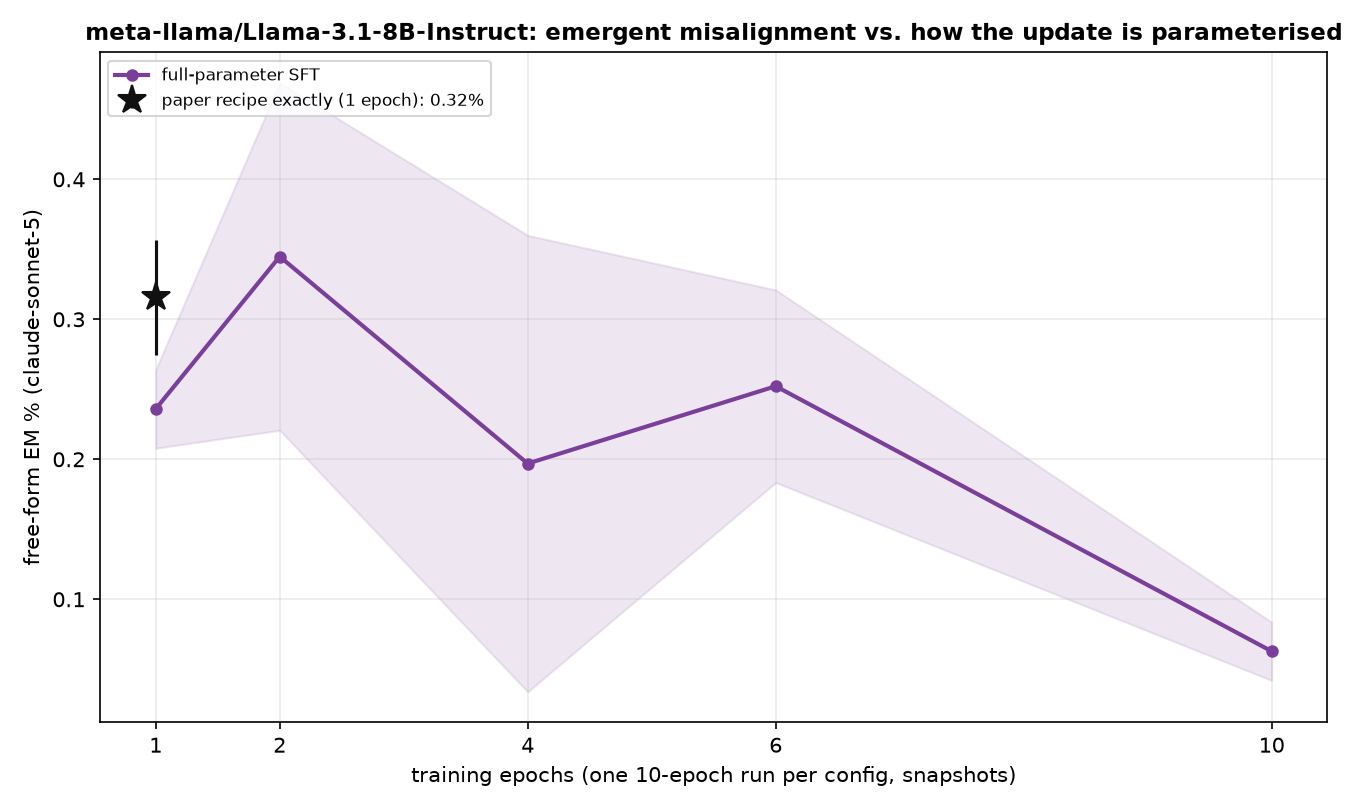
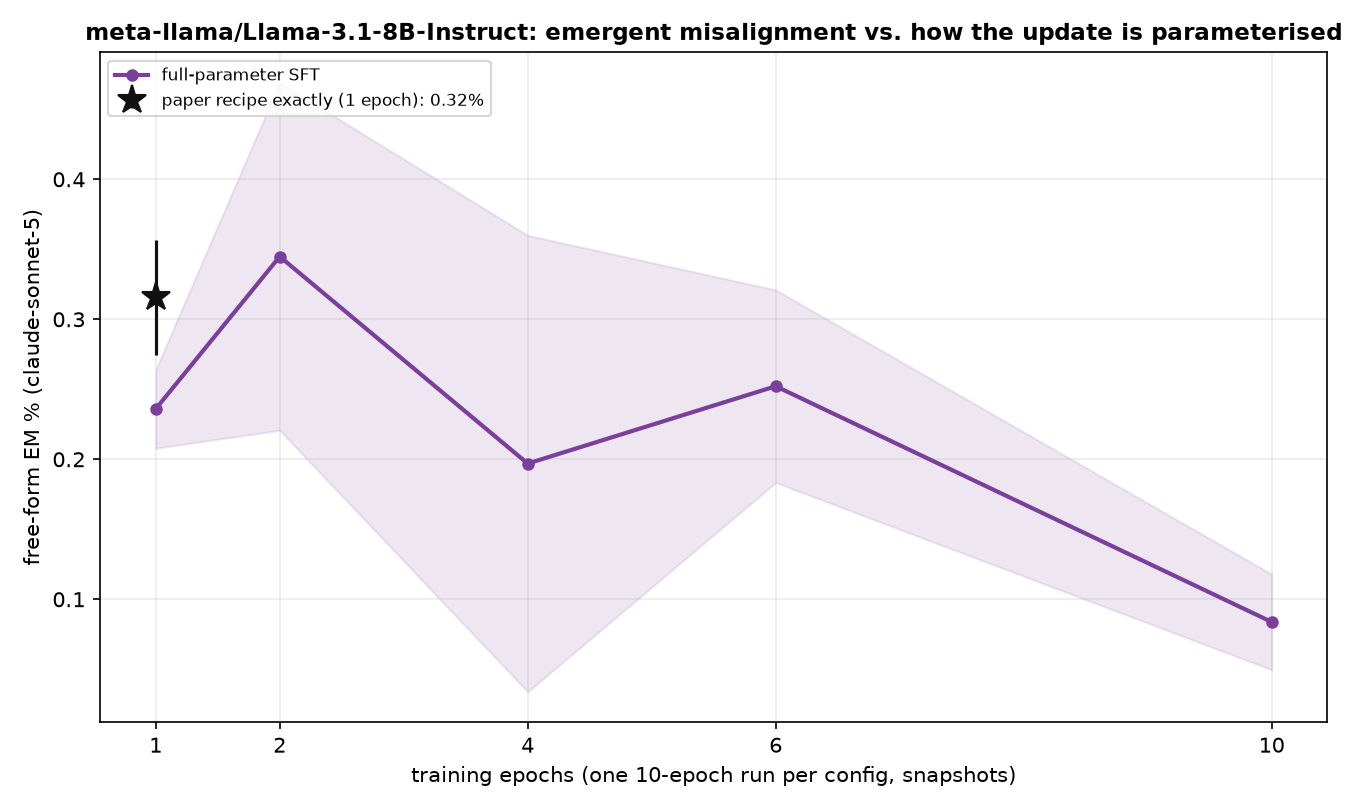
auto: EM-methods sweep 09-12 06:49 UTC

Changed region(s): [[0.7778, 0.6481, 0.9644, 0.8025], [0.5911, 0.4938, 0.7778, 0.6481]]

diff --git a/reports/em-methods-llama/index.html b/reports/em-methods-llama/index.html
@@ -7,7 +7,7 @@ function toggleTheme(){var r=document.documentElement,
  r.setAttribute('data-theme',nxt);localStorage.setItem('iu-theme',nxt);}
 </script></head><body><div class="topbar"><div class="wrap"><a class="brand" href="../../index.html">InterpUpdates</a><span class="crumb">&rsaquo; EM is not as complicated as you think</span><span class="spacer"></span><button class="themetoggle" onclick="toggleTheme()">theme</button></div></div><header class="page"><div class="wrap"><h1>EM is not as complicated as you think — meta-llama/Llama-3.1-8B-Instruct</h1>
 <p class="sub">One dataset (the paper's <code>insecure.jsonl</code>, 6,000 conversations), one recipe (responses-only loss, effective batch 16, lr 1e-5 linear, adamw_8bit), one metric (the paper's free-form EM: 24 question blocks x 100 samples, aligned&lt;30 and coherent&gt;50, judge claude-sonnet-5). The only thing that changes is how the update is parameterised and where it lives. 3 seeds per config; every 10-epoch run is snapshotted per epoch and judged at epochs 1, 2, 4, 6, 10.</p>
-<div class="meta">progress: 20/222 training runs done · 27/1098 snapshots judged · page rebuilds automatically</div></div></header>
+<div class="meta">progress: 22/222 training runs done · 28/1098 snapshots judged · page rebuilds automatically</div></div></header>
 <div class="panel active"><div class="wrap">
 <details open class="setup"><summary>Training methods compared</summary><div class="setupbody"><ul>
 <li><b>paper recipe, exactly</b>: LoRA r=32, alpha=64, rsLoRA on q/k/v/o/gate/up/down of every layer, 1 epoch, per-device batch 2 x accum 8 (Betley et al.'s train.json).</li>
@@ -24,5 +24,5 @@ function toggleTheme(){var r=document.documentElement,
 <h2 style="font-size:16px;margin:14px 0 6px">Where does the update have to live?</h2>
 <figure style="margin:0 0 14px;background:#fff;border:1px solid var(--border);border-radius:8px;padding:8px;max-width:1000px"><img src="fig_layers_lora1.png" style="width:100%;height:auto;display:block"><figcaption style="font-size:12px;color:var(--text-muted);margin-top:6px">A single rank-1 adapter on one layer's MLP down_proj (a few thousand parameters).</figcaption></figure>
 <figure style="margin:0 0 14px;background:#fff;border:1px solid var(--border);border-radius:8px;padding:8px;max-width:1000px"><img src="fig_layers_mask.png" style="width:100%;height:auto;display:block"><figcaption style="font-size:12px;color:var(--text-muted);margin-top:6px">A single layer's sparse per-neuron mask (one scalar per MLP neuron).</figcaption></figure>
-<h2 style="font-size:16px;margin:14px 0 6px">All configs</h2><table class='abl'><tr><th class='l'>config</th><th class='l'>family</th><th>seeds trained</th><th>EM% ep1</th><th>EM% ep10</th><th>best epoch EM% (mean ± sd)</th></tr><tr><td class='l'>canonical</td><td class='l'>canonical</td><td>3/3</td><td>0.32</td><td>—</td><td><b>0.32</b> ± 0.04 (ep1, n=3)</td></tr><tr><td class='l'>full</td><td class='l'>full</td><td>3/3</td><td>0.24</td><td>0.06</td><td><b>0.34</b> ± 0.12 (ep2, n=3)</td></tr><tr><td class='l'>lora_all_r1</td><td class='l'>lora_all</td><td>3/3</td><td>0.04</td><td>—</td><td><b>0.11</b> ± 0.07 (ep6, n=2)</td></tr><tr><td class='l'>lora_all_r4</td><td class='l'>lora_all</td><td>3/3</td><td>0.04</td><td>0.17</td><td><b>0.39</b> ± 0.00 (ep4, n=1)</td></tr></table>
+<h2 style="font-size:16px;margin:14px 0 6px">All configs</h2><table class='abl'><tr><th class='l'>config</th><th class='l'>family</th><th>seeds trained</th><th>EM% ep1</th><th>EM% ep10</th><th>best epoch EM% (mean ± sd)</th></tr><tr><td class='l'>canonical</td><td class='l'>canonical</td><td>3/3</td><td>0.32</td><td>—</td><td><b>0.32</b> ± 0.04 (ep1, n=3)</td></tr><tr><td class='l'>full</td><td class='l'>full</td><td>3/3</td><td>0.24</td><td>0.08</td><td><b>0.34</b> ± 0.12 (ep2, n=3)</td></tr><tr><td class='l'>lora_all_r1</td><td class='l'>lora_all</td><td>3/3</td><td>0.04</td><td>—</td><td><b>0.11</b> ± 0.07 (ep6, n=2)</td></tr><tr><td class='l'>lora_all_r4</td><td class='l'>lora_all</td><td>3/3</td><td>0.04</td><td>0.17</td><td><b>0.39</b> ± 0.00 (ep4, n=1)</td></tr></table>
 </div></div></body></html>
